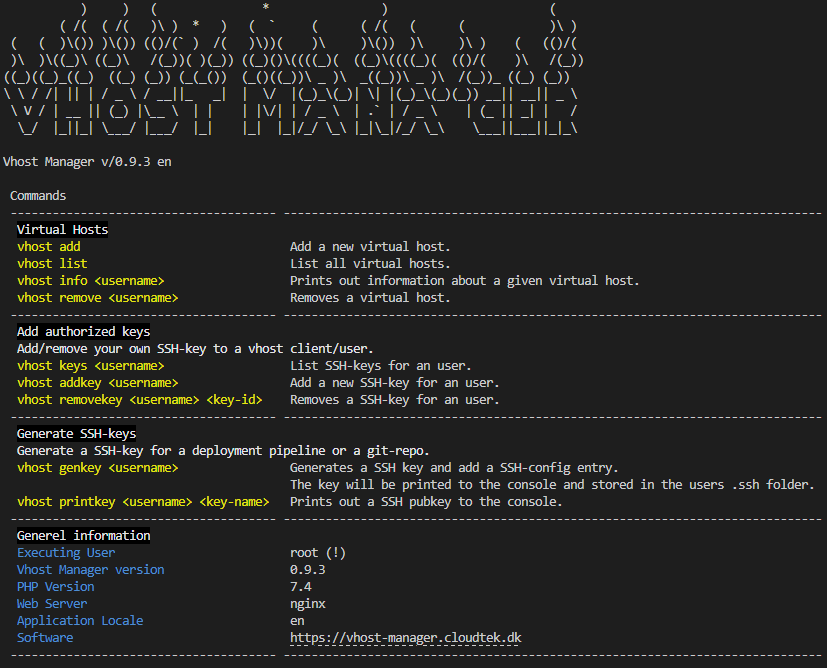
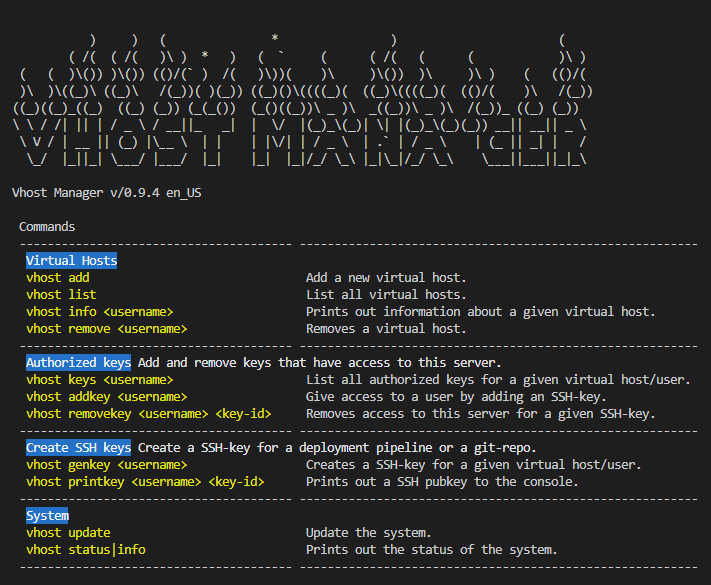
changed screenshot; changed todo

Changed region(s): [[0.0, 0.0, 0.9902, 0.9846], [0.9283, 0.3077, 0.9902, 0.3385], [0.7736, 0.2462, 0.8045, 0.2769]]

diff --git a/README.md b/README.md
@@ -1,6 +1,7 @@
 # vhost-manager for Ubuntu
 
-![Preview of vhost-manager](https://raw.githubusercontent.com/nsommer89/vhost-manager/master/screenshot.png)
+#### Demo/Screenshot
+<img src="https://raw.githubusercontent.com/nsommer89/vhost-manager/master/screenshot.png" width="350">
 
 #### ABOUT: vhost-manager is a tool for ubuntu servers to easily manage shared web hosting sites with nginx and php-fpm
 
@@ -30,8 +31,7 @@ Version history, see https://raw.githubusercontent.com/nsommer89/vhost-manager/m
 
 -----
 ## Todo
-1. ( ) Make certbot work (Actually just a test on a reachable FQDN to see it work)
-2. ( ) Users have to run as sudo
+No items currently
 
 ## Update version checklist:
 1. Update and render it in GenerateVersions.php
